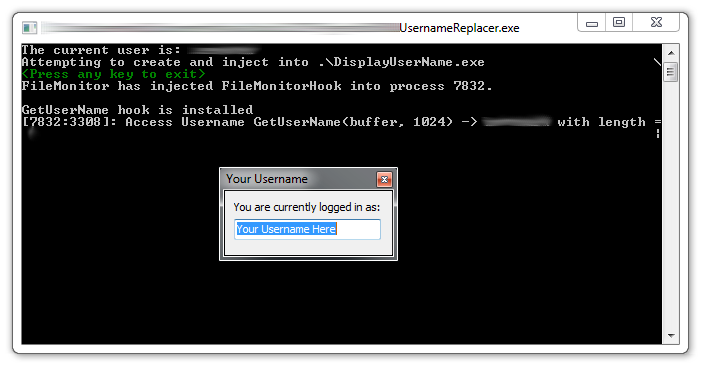
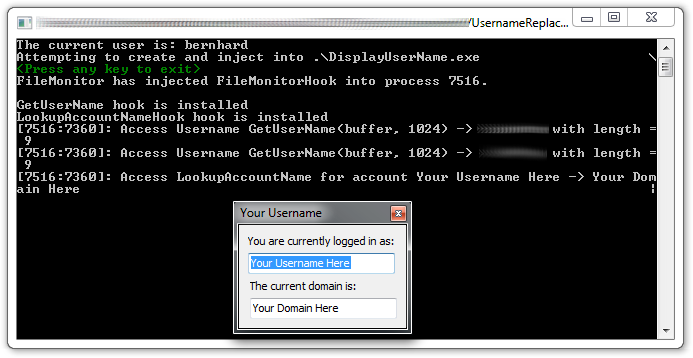
Add Function LookupAccountName to Hook List

diff --git a/UsernameHook/InjectionEntryPoint.cs b/UsernameHook/InjectionEntryPoint.cs
@@ -21,7 +21,12 @@ namespace UsernameHook
         /// <summary>
         /// Stores the Username, that will be returned to every calling process
         /// </summary>
-        private string _ReplaceUsername = "";
+        private string _ReplaceUsername;
+
+        /// <summary>
+        /// Stores the Domain Name, that will be returned to every calling process
+        /// </summary>
+        private string _ReplaceDomainName;
 
         /// <summary>
         /// Message queue of all files accessed
@@ -36,7 +41,7 @@ namespace UsernameHook
         /// </summary>
         /// <param name="context">The RemoteHooking context</param>
         /// <param name="channelName">The name of the IPC channel</param>
-        public InjectionEntryPoint(EasyHook.RemoteHooking.IContext context, string channelName, string ReplaceUsername)
+        public InjectionEntryPoint(EasyHook.RemoteHooking.IContext context, string channelName, string ReplaceUsername, string ReplaceDomainName)
         {
             // Connect to server object using provided channel name
             _server = EasyHook.RemoteHooking.IpcConnectClient<ServerInterface>(channelName);
@@ -45,6 +50,7 @@ namespace UsernameHook
             _server.Ping();
 
             _ReplaceUsername = ReplaceUsername;
+            _ReplaceDomainName = ReplaceDomainName;
         }
 
         /// <summary>
@@ -54,7 +60,7 @@ namespace UsernameHook
         /// </summary>
         /// <param name="context">The RemoteHooking context</param>
         /// <param name="channelName">The name of the IPC channel</param>
-        public void Run(EasyHook.RemoteHooking.IContext context, string channelName, string ReplaceUsername)
+        public void Run(EasyHook.RemoteHooking.IContext context, string channelName, string ReplaceUsername, string ReplaceDomainName)
         {
             // Injection is now complete and the server interface is connected
             _server.IsInstalled(EasyHook.RemoteHooking.GetCurrentProcessId());
@@ -71,6 +77,17 @@ namespace UsernameHook
             getUserNameHook.ThreadACL.SetExclusiveACL(new Int32[] { 0 });
 
             _server.ReportMessage("GetUserName hook is installed");
+
+            // LookupAccountName https://msdn.microsoft.com/de-de/library/windows/desktop/aa379159(v=vs.85).aspx
+            var lookupAccountNameHook = EasyHook.LocalHook.Create(
+                EasyHook.LocalHook.GetProcAddress("Advapi32.dll", "LookupAccountNameW"),
+                new LookupAccountName_Delegate(lookupAccountName_Hook),
+                this);
+
+            // Activate hooks on all threads except the current thread
+            lookupAccountNameHook.ThreadACL.SetExclusiveACL(new Int32[] { 0 });
+
+            _server.ReportMessage("LookupAccountNameHook hook is installed");
 
             // Wake up the process (required if using RemoteHooking.CreateAndInject)
             EasyHook.RemoteHooking.WakeUpProcess();
@@ -108,6 +125,7 @@ namespace UsernameHook
 
             // Remove hooks
             getUserNameHook.Dispose();
+            lookupAccountNameHook.Dispose();
 
             // Finalise cleanup of hooks
             EasyHook.LocalHook.Release();
@@ -171,5 +189,87 @@ namespace UsernameHook
         }
 
         #endregion
+
+        #region LookupAccountName Hook
+
+        /// <summary>
+        /// See https://msdn.microsoft.com/de-de/library/windows/desktop/aa379601(v=vs.85).aspx
+        /// </summary>
+        enum SID_NAME_USE
+        {
+            SidTypeUser = 1,
+            SidTypeGroup,
+            SidTypeDomain,
+            SidTypeAlias,
+            SidTypeWellKnownGroup,
+            SidTypeDeletedAccount,
+            SidTypeInvalid,
+            SidTypeUnknown,
+            SidTypeComputer
+        }
+
+        /// <summary>
+        /// The LookupAccountName delegate, this is needed to create a delegate of our hook function <see cref="lookupAccountName_Hook(...)"/>.
+        /// </summary>
+        /// <returns></returns>
+        [UnmanagedFunctionPointer(CallingConvention.StdCall, CharSet = CharSet.Unicode, SetLastError = true)]
+        delegate bool LookupAccountName_Delegate(string lpSystemName, string lpAccountName, [MarshalAs(UnmanagedType.LPArray)] byte[] Sid, ref uint cbSid, StringBuilder ReferencedDomainName, ref uint cchReferencedDomainName, out SID_NAME_USE peUse);
+
+        /// <summary>
+        /// Using P/Invoke to call original method.
+        /// https://msdn.microsoft.com/de-de/library/windows/desktop/aa379159(v=vs.85).aspx
+        /// </summary>
+        /// <param name="lpBuffer"></param>
+        /// <param name="lpnSize"></param>
+        /// <returns></returns>
+        [DllImport("advapi32.dll", SetLastError = true)]
+        static extern bool LookupAccountName(string lpSystemName, string lpAccountName, [MarshalAs(UnmanagedType.LPArray)] byte[] Sid, ref uint cbSid, StringBuilder ReferencedDomainName, ref uint cchReferencedDomainName, out SID_NAME_USE peUse);
+
+
+        /// <summary>
+        /// The LookupAccountName hook function. This will be called instead of the original LookupAccountName once hooked.
+        /// </summary>
+        /// <returns></returns>
+        bool lookupAccountName_Hook(string lpSystemName, string lpAccountName, [MarshalAs(UnmanagedType.LPArray)] byte[] Sid, ref uint cbSid, StringBuilder ReferencedDomainName, ref uint cchReferencedDomainName, out SID_NAME_USE peUse)
+        {
+            bool result;
+            // Filter for the correct calling type
+            if (lpSystemName == null)
+            {
+                // Hook if SystemName is null
+                peUse = SID_NAME_USE.SidTypeUser;
+                ReferencedDomainName.Clear().Append(_ReplaceDomainName);
+                result = true;
+
+            }
+            else
+            {
+                // now call the original API...
+                result = LookupAccountName(lpSystemName, lpAccountName, Sid, ref cbSid, ReferencedDomainName, ref cchReferencedDomainName, out peUse);
+            }
+
+            try
+            {
+                lock (this._messageQueue)
+                {
+                    if (this._messageQueue.Count < 1000)
+                    {
+                        // Add message to send to FileMonitor
+                        this._messageQueue.Enqueue(
+                            string.Format("[{0}:{1}]: Access LookupAccountName for account {2} -> {3}",
+                            EasyHook.RemoteHooking.GetCurrentProcessId(), EasyHook.RemoteHooking.GetCurrentThreadId(), lpAccountName, ReferencedDomainName.ToString()));
+                    }
+                }
+            }
+            catch
+            {
+                // swallow exceptions so that any issues caused by this code do not crash target process
+            }
+
+
+
+            return result;
+        }
     }
+    #endregion
 }

diff --git a/UsernameReplacer/Program.cs b/UsernameReplacer/Program.cs
@@ -32,6 +32,7 @@ namespace UsernameReplacer
             string targetExe = ConfigurationManager.AppSettings["TargetExe"].ToString();
             string ExeParams = ConfigurationManager.AppSettings["Params"].ToString();
             string ReplaceUsername = ConfigurationManager.AppSettings["UserName"].ToString();
+            string ReplaceDomain = ConfigurationManager.AppSettings["Domain"].ToString();
 
             // Create the IPC server using the FileMonitorIPC.ServiceInterface class as a singleton
             EasyHook.RemoteHooking.IpcCreateServer<UsernameHook.ServerInterface>(ref channelName, System.Runtime.Remoting.WellKnownObjectMode.Singleton);
@@ -52,8 +53,10 @@ namespace UsernameReplacer
                     injectionLibrary,   // 32-bit library to inject (if target is 32-bit)
                     injectionLibrary,   // 64-bit library to inject (if target is 64-bit)
                     out targetPID,      // retrieve the newly created process ID
-                    channelName,          // the parameters to pass into injected library
-                    ReplaceUsername       // ...
+                    // the parameters to pass into injected library
+                    channelName,        // Channel for Communication
+                    ReplaceUsername,    // Username
+                    ReplaceDomain       // Domain
                 );
             }
             catch (Exception e)

diff --git a/UsernameHook/Properties/AssemblyInfo.cs b/UsernameHook/Properties/AssemblyInfo.cs
@@ -5,7 +5,7 @@ using System.Runtime.InteropServices;
 // Attribute gesteuert. Ändern Sie diese Attributwerte, um die Informationen zu ändern,
 // die einer Assembly zugeordnet sind.
 [assembly: AssemblyTitle("UsernameHook")]
-[assembly: AssemblyDescription("Transparently change the username an application sees")]
+[assembly: AssemblyDescription("Transparently change the username and domain name an application sees")]
 [assembly: AssemblyConfiguration("")]
 [assembly: AssemblyCompany("")]
 [assembly: AssemblyProduct("UsernameHook")]

diff --git a/Readme.md b/Readme.md
@@ -17,6 +17,7 @@ The Replacer reads all parameters from the `App.config`. The folloging items are
 * `TargetExe`: The Application that should be started
 * `Params`: All params that should be submitted via command line
 * `UserName`: The Username that should be reported to the calling app
+* `Domain`: The Domain that should be reported to the calling app
 
 ## License
 
